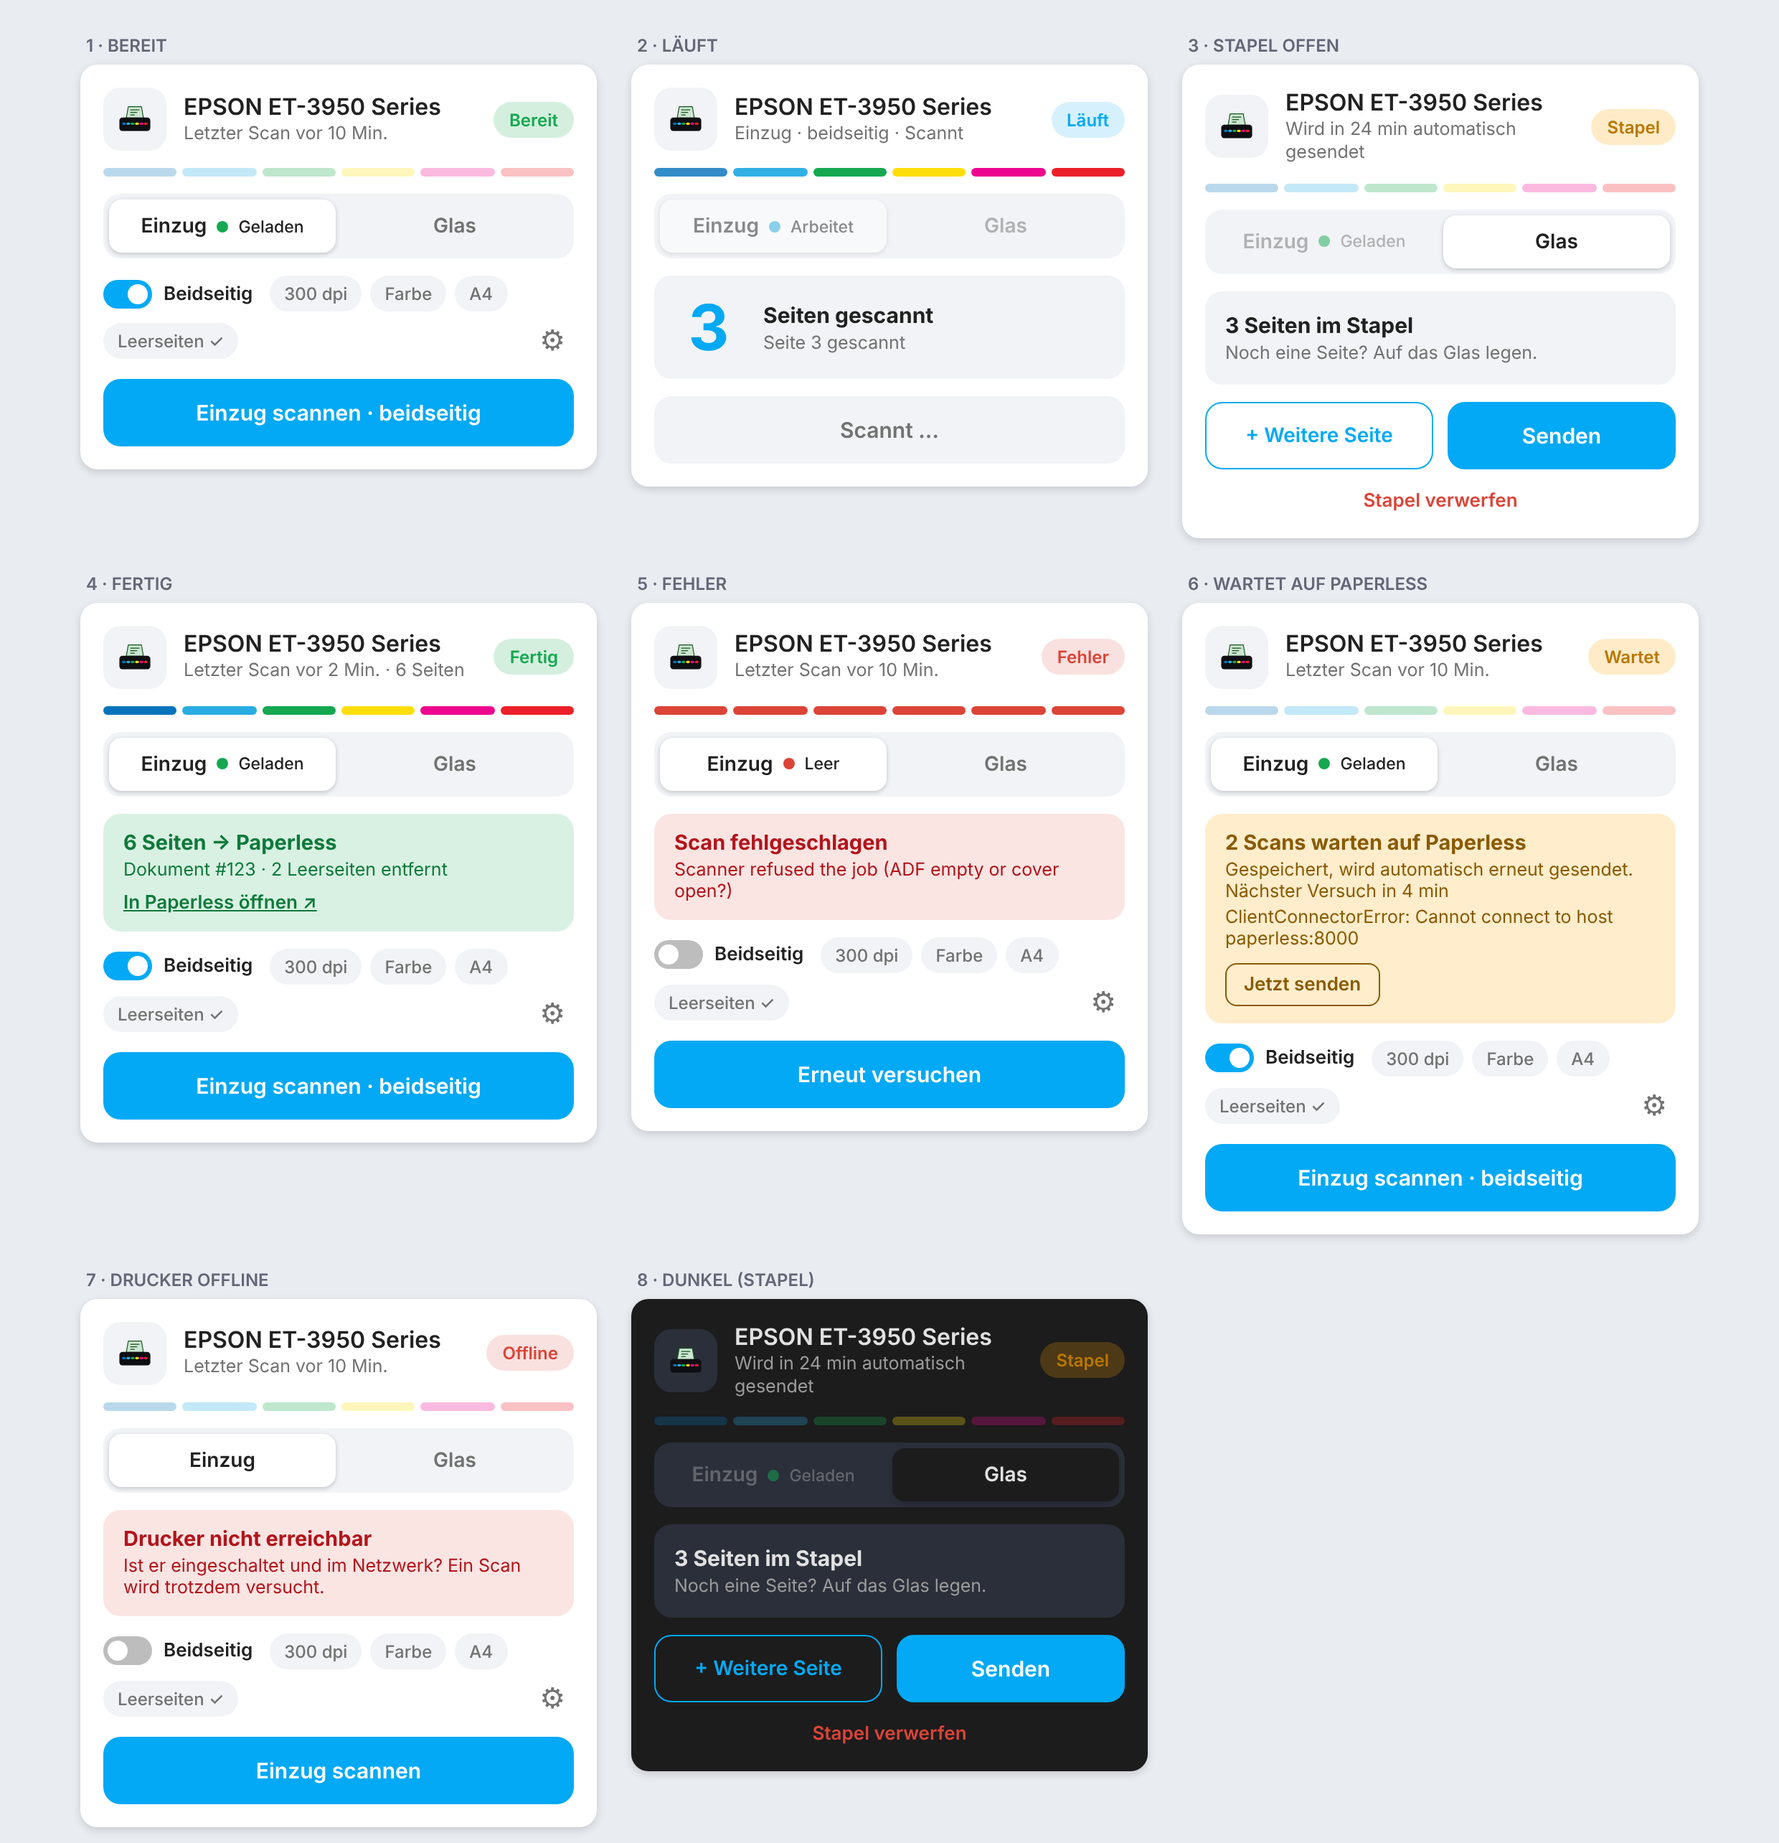
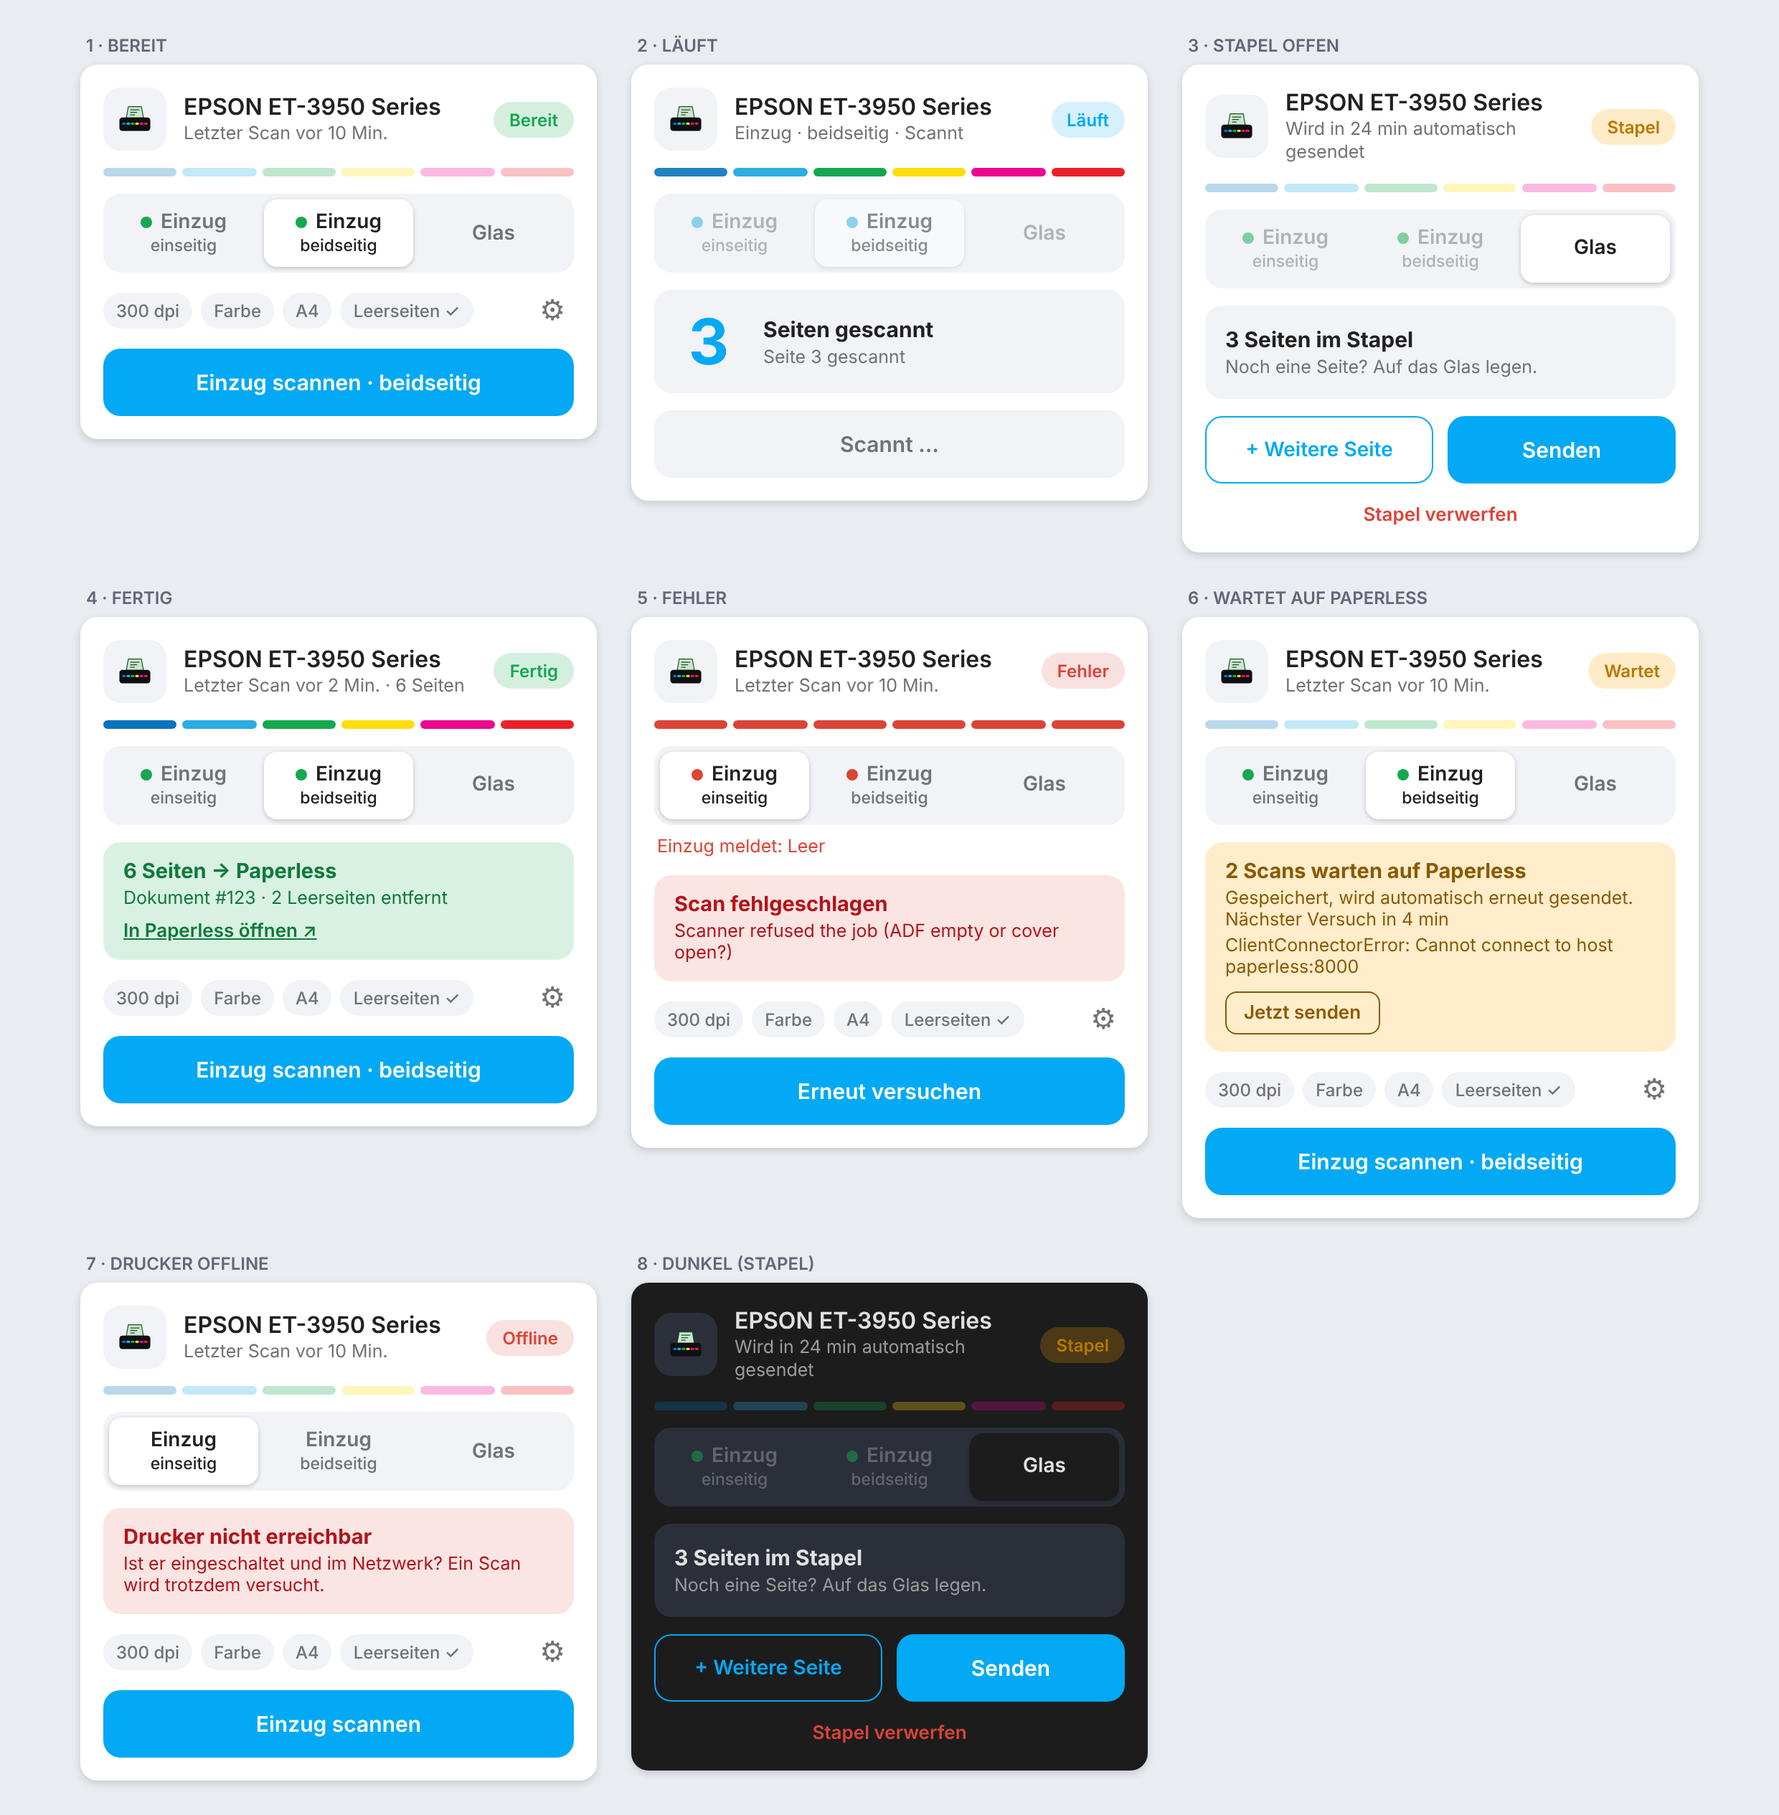
Card: feeder one-sided, feeder two-sided and glass as three modes; options in one row (0.10.1) (#23)
Claude-Session: https://claude.ai/code/session_01VXdiocP3YZJpREZCg1kc2R

diff --git a/custom_components/ha_airscan/frontend/ha-airscan-card.js b/custom_components/ha_airscan/frontend/ha-airscan-card.js
@@ -14,7 +14,7 @@ const T = {
     ready: "Bereit", running: "Läuft", batch: "Stapel", done: "Fertig", queued: "Wartet", error: "Fehler", unavailable: "Nicht verfügbar", offline: "Offline",
     platen: "Glas", adf: "Einzug", loaded: "Geladen", empty: "Leer", processing: "Arbeitet", jam: "Papierstau",
     cover_open: "Abdeckung offen", feeder_error: "Fehler",
-    duplex: "Beidseitig", duplex_lc: "beidseitig", scan_glass: "Seite scannen", scan_adf: "Einzug scannen", scan_adf_duplex: "Einzug scannen · beidseitig",
+    simplex: "einseitig", duplex_lc: "beidseitig", feeder_reports: "Einzug meldet:", scan_glass: "Seite scannen", scan_adf: "Einzug scannen", scan_adf_duplex: "Einzug scannen · beidseitig",
     scanning: "Scannt …", retry: "Erneut versuchen", add_page: "+ Weitere Seite", send: "Senden", discard: "Stapel verwerfen",
     last_scan: "Letzter Scan", pages_n: (n) => `${n} ${n === 1 ? "Seite" : "Seiten"}`,
     pages_scanned: "Seiten gescannt", in_batch: (n) => `${n} ${n === 1 ? "Seite" : "Seiten"} im Stapel`,
@@ -35,7 +35,7 @@ const T = {
     ready: "Ready", running: "Running", batch: "Batch", done: "Done", queued: "Waiting", error: "Error", unavailable: "Unavailable", offline: "Offline",
     platen: "Glass", adf: "Feeder", loaded: "Loaded", empty: "Empty", processing: "Busy", jam: "Jam",
     cover_open: "Cover open", feeder_error: "Error",
-    duplex: "Two-sided", duplex_lc: "two-sided", scan_glass: "Scan page", scan_adf: "Scan feeder", scan_adf_duplex: "Scan feeder · two-sided",
+    simplex: "one-sided", duplex_lc: "two-sided", feeder_reports: "Feeder reports:", scan_glass: "Scan page", scan_adf: "Scan feeder", scan_adf_duplex: "Scan feeder · two-sided",
     scanning: "Scanning …", retry: "Try again", add_page: "+ Another page", send: "Send", discard: "Discard batch",
     last_scan: "Last scan", pages_n: (n) => `${n} ${n === 1 ? "page" : "pages"}`,
     pages_scanned: "pages scanned", in_batch: (n) => `${n} ${n === 1 ? "page" : "pages"} in the batch`,
@@ -87,21 +87,19 @@ ha-card{color:var(--primary-text-color)}
 @keyframes pulse{50%{opacity:.35}}
 .beam.error i{background:var(--error-color,#db4437);opacity:1}
 .seg{display:grid;grid-auto-flow:column;grid-auto-columns:1fr;background:var(--secondary-background-color);border-radius:12px;padding:4px;gap:4px}
-.seg button{border:0;background:transparent;border-radius:9px;padding:10px 8px;font:inherit;font-weight:600;font-size:14px;color:var(--secondary-text-color);display:flex;align-items:center;justify-content:center;gap:7px;cursor:pointer}
+.seg button{border:0;background:transparent;border-radius:9px;padding:8px 4px;font:inherit;font-weight:600;font-size:14px;line-height:1.15;color:var(--secondary-text-color);display:flex;flex-direction:column;align-items:center;justify-content:center;gap:2px;cursor:pointer;min-width:0}
+.seg .l1{display:flex;align-items:center;gap:6px}
 .seg button.on{background:var(--card-background-color,#fff);color:var(--primary-text-color);box-shadow:0 1px 3px rgba(0,0,0,.2)}
 .seg button[disabled]{opacity:.5;cursor:not-allowed}
 .seg small{font-weight:500;font-size:11.5px}
 .dot{width:8px;height:8px;border-radius:50%;background:var(--disabled-text-color,#9e9e9e)}
 .dot.loaded{background:var(--success-color,#15a850)}.dot.empty,.dot.jam,.dot.cover_open,.dot.error{background:var(--error-color,#db4437)}.dot.processing{background:#29ACE2}
 .opts{display:flex;flex-wrap:wrap;gap:6px;align-items:center}
-.pill{font-size:12px;background:var(--secondary-background-color);color:var(--secondary-text-color);padding:5px 10px;border-radius:99px;font-weight:500}
+.feeder-hint{font-size:12.5px;margin:-4px 2px 0;color:var(--error-color,#db4437)}
+.pill{font-size:12px;background:var(--secondary-background-color);color:var(--secondary-text-color);padding:5px 9px;border-radius:99px;font-weight:500;white-space:nowrap}
 .pill.set{color:var(--primary-color)}
 .gear{margin-left:auto;border:0;background:transparent;color:var(--secondary-text-color);font-size:20px;cursor:pointer;padding:2px 6px}
 .gear.on{color:var(--primary-color)}
-.sw{display:flex;align-items:center;gap:8px;font-size:13px;font-weight:600;margin-right:6px;cursor:pointer;user-select:none}
-.sw .knob{width:34px;height:20px;border-radius:99px;background:var(--disabled-text-color,#bdbdbd);position:relative;display:inline-block;transition:background .15s}
-.sw .knob:after{content:"";position:absolute;left:3px;top:3px;width:14px;height:14px;border-radius:50%;background:#fff;transition:transform .15s}
-.sw.on .knob{background:var(--primary-color)}.sw.on .knob:after{transform:translateX(14px)}
 .panel{background:var(--secondary-background-color);border-radius:12px;padding:12px;display:grid;grid-template-columns:1fr 1fr;gap:10px 12px}
 .panel h4{grid-column:1/-1;margin:0;font-size:12.5px;font-weight:600;color:var(--secondary-text-color)}
 .panel label{display:flex;flex-direction:column;gap:4px;font-size:12px;color:var(--secondary-text-color)}
@@ -218,8 +216,12 @@ class HaAirscanCard extends HTMLElement {
     if (!el || el.disabled) return;
     const act = el.dataset.act;
     const ui = this._ui;
-    if (act === "src") { ui.source = el.dataset.v; this._save(); this._sig = ""; this._update(); }
-    else if (act === "duplex") { ui.duplex = !ui.duplex; this._save(); this._sig = ""; this._update(); }
+    if (act === "mode") {
+      const v = el.dataset.v;
+      ui.source = v === "platen" ? "platen" : "adf";
+      if (v !== "platen") ui.duplex = v === "adf2";
+      this._save(); this._sig = ""; this._update();
+    }
     else if (act === "gear") { ui.open = !ui.open; this._sig = ""; this._update(); }
     else if (act === "scan") {
       if (ui.source === "adf") this._call("scan", { source: "adf", duplex: ui.duplex && this._caps.duplex, ...this._overrides(false) });
@@ -296,10 +298,19 @@ class HaAirscanCard extends HTMLElement {
 
     // source selector
     const feederKey = feeder ? (FEEDER_KEYS[feeder.state] || null) : null;
-    const seg = (caps.platen && caps.adf) ? `<div class="seg">
-        <button data-act="src" data-v="adf" class="${source === "adf" ? "on" : ""}" ${running || locked ? "disabled" : ""} ${locked ? `title="${esc(t.batch_lock)}"` : ""}>${esc(t.adf)}${feederKey ? `<span class="dot ${esc(feeder.state)}"></span><small>${esc(t[feederKey])}</small>` : ""}</button>
-        <button data-act="src" data-v="platen" class="${source === "platen" ? "on" : ""}" ${running ? "disabled" : ""}>${esc(t.platen)}</button>
-      </div>` : "";
+    const modes = [];
+    if (caps.adf) {
+      modes.push({ id: "adf1", feeder: true, l1: t.adf, l2: t.simplex });
+      if (caps.duplex) modes.push({ id: "adf2", feeder: true, l1: t.adf, l2: t.duplex_lc });
+    }
+    if (caps.platen) modes.push({ id: "platen", feeder: false, l1: t.platen, l2: "" });
+    const modeNow = source === "platen" ? "platen" : (ui.duplex && caps.duplex ? "adf2" : "adf1");
+    const modeButton = (m) => `<button data-act="mode" data-v="${m.id}" class="${modeNow === m.id ? "on" : ""}" ${running || (locked && m.feeder) ? "disabled" : ""} ${locked && m.feeder ? `title="${esc(t.batch_lock)}"` : ""}>
+        <span class="l1">${m.feeder && feederKey ? `<span class="dot ${esc(feeder.state)}" title="${esc(t[feederKey])}"></span>` : ""}${esc(m.l1)}</span>${m.l2 ? `<small>${esc(m.l2)}</small>` : ""}</button>`;
+    const seg = modes.length > 1 ? `<div class="seg">${modes.map(modeButton).join("")}</div>` : "";
+    // the feeder state as text only when it needs attention (it can be stale after standby)
+    const feederHint = source === "adf" && feederKey && !running && !["loaded", "processing"].includes(feeder.state)
+      ? `<div class="feeder-hint">${esc(t.feeder_reports)} ${esc(t[feederKey])}</div>` : "";
 
     // middle part by status
     let middle = "";
@@ -346,11 +357,10 @@ class HaAirscanCard extends HTMLElement {
       const blankOn = ui.blank !== "default" ? ui.blank === "on" : !!settings.blank_detection;
       const pill = (txt, set) => `<span class="pill ${set ? "set" : ""}">${esc(txt)}</span>`;
       opts = `<div class="opts">
-        ${source === "adf" && caps.duplex ? `<label class="sw ${ui.duplex ? "on" : ""}" data-act="duplex" role="switch" aria-checked="${ui.duplex}"><span class="knob"></span>${esc(t.duplex)}</label>` : ""}
         ${eff.res ? pill(`${eff.res} dpi`, ui.resolution !== "default") : ""}
         ${eff.color ? pill(eff.color === "grayscale" ? t.gray : t.color, ui.color !== "default") : ""}
         ${eff.page ? pill(eff.page === "max" ? t.max : String(eff.page).toUpperCase(), ui.page !== "default") : ""}
-        ${source === "adf" ? pill(`${t.blank} ${blankOn ? "✓" : "–"}`, ui.blank !== "default") : ""}
+        ${source === "adf" && blankOn ? pill(`${t.blank} ✓`, ui.blank !== "default") : ""}
         <button class="gear ${ui.open ? "on" : ""}" data-act="gear" aria-label="${esc(t.settings)}" title="${esc(t.settings)}">⚙</button>
       </div>`;
       if (ui.open) {
@@ -377,7 +387,7 @@ class HaAirscanCard extends HTMLElement {
     root.innerHTML = `<style>${STYLE}</style><ha-card><div class="body">
       <div class="head"><div class="logo">${LOGO}</div><div class="t"><div class="name">${esc(name)}</div><div class="sub">${esc(sub)}</div></div><span class="chip ${chipCls}">${esc(t[chipKey])}</span></div>
       <div class="beam ${beam}"><i></i><i></i><i></i><i></i><i></i><i></i></div>
-      ${seg}${middle}${printerBox}${banner}${queueBox}${opts}${panel}${actions}
+      ${seg}${feederHint}${middle}${printerBox}${banner}${queueBox}${opts}${panel}${actions}
       ${this._toast ? `<div class="toast">${esc(this._toast)}</div>` : ""}
     </div></ha-card>`;
   }

diff --git a/tests/card/run.js b/tests/card/run.js
@@ -32,14 +32,16 @@ const assert = require("assert");
     const tick = () => new Promise((r) => setTimeout(r, 0));
 
     const c = mount({ status: "idle" }, document.body);      // default source = feeder
-    out.defaultFeeder = root(c).querySelector('[data-act="src"][data-v="adf"]').classList.contains("on");
-    out.feederFirst = root(c).querySelector('.seg button').dataset.v;
+    out.defaultFeeder = root(c).querySelector('[data-act="mode"][data-v="adf1"]').classList.contains("on");
+    out.modes = [...root(c).querySelectorAll('.seg button')].map((b) => b.dataset.v);
+    const rowTops = (card) => [...new Set([...root(card).querySelectorAll('.opts > *')].map((e) => { const b = e.getBoundingClientRect(); return Math.round((b.top + b.height / 2) / 4); }))].length;   // vertical centres, 4px tolerance
+    out.optsRows = rowTops(c);
     out.simplex = c._hass.calls.length === 0 && (click(c, '[data-act="scan"]'), c._hass.calls.slice());
     c._hass.calls.length = 0;
-    click(c, '[data-act="src"][data-v="platen"]'); await tick();
+    click(c, '[data-act="mode"][data-v="platen"]'); await tick();
     click(c, '[data-act="scan"]'); out.glass = c._hass.calls.slice();
-    click(c, '[data-act="src"][data-v="adf"]'); await tick();
-    click(c, '[data-act="duplex"]'); await tick();
+    click(c, '[data-act="mode"][data-v="adf2"]'); await tick();
+    out.duplexOn = root(c).querySelector('[data-act="mode"][data-v="adf2"]').classList.contains("on");
     click(c, '[data-act="scan"]'); out.adfDuplex = c._hass.calls.slice();
     click(c, '[data-act="gear"]'); await tick();
     const sel = root(c).querySelector('[data-set="resolution"]'); sel.value = "600"; sel.dispatchEvent(new Event("change", { bubbles: true })); await tick();
@@ -50,7 +52,7 @@ const assert = require("assert");
     const b = mount({ status: "batch", attrs: { batch_pages: 2 } }, document.body);
     click(b, '[data-act="add"]'); click(b, '[data-act="send"]'); click(b, '[data-act="discard"]');
     out.batch = b._hass.calls.slice();
-    out.batchAdfDisabled = root(b).querySelector('[data-act="src"][data-v="adf"]').disabled;
+    out.batchAdfDisabled = root(b).querySelector('[data-act="mode"][data-v="adf1"]').disabled && root(b).querySelector('[data-act="mode"][data-v="adf2"]').disabled;
 
     const r = mount({ status: "running" }, document.body);
     out.runningDisabled = root(r).querySelector(".primary").disabled;
@@ -93,7 +95,9 @@ const assert = require("assert");
   });
 
   assert.strictEqual(result.defaultFeeder, true, "feeder must be the default");
-  assert.strictEqual(result.feederFirst, "adf", "feeder button must be on the left");
+  assert.deepStrictEqual(result.modes, ["adf1", "adf2", "platen"], "feeder one-sided, feeder two-sided, glass");
+  assert.strictEqual(result.optsRows, 1, "the options must fit in one row");
+  assert.strictEqual(result.duplexOn, true);
   assert.deepStrictEqual(result.simplex, [["ha_airscan", "scan", { source: "adf", duplex: false }]]);
   assert.deepStrictEqual(result.glass, [["ha_airscan", "batch_add", {}]]);
   assert.deepStrictEqual(result.adfDuplex[1], ["ha_airscan", "scan", { source: "adf", duplex: true }]);

diff --git a/README.md b/README.md
@@ -64,7 +64,7 @@ type: custom:ha-airscan-card
 entity: sensor.epson_et_3950_series_status   # der Status-Sensor des Scanners
 ```
 
-- Quelle wählen (Glas / Einzug), bei Bedarf *Beidseitig* und über das Zahnrad Auflösung, Farbe, Format und Leerseiten **für den nächsten Scan** (wird im Browser gemerkt, die Integrationsoptionen bleiben unverändert).
+- Scanart in drei Segmenten wählen: **Einzug einseitig**, **Einzug beidseitig** (nur wenn der Scanner Duplex kann) oder **Glas**; über das Zahnrad Auflösung, Farbe, Format und Leerseiten **für den nächsten Scan** (wird im Browser gemerkt, die Integrationsoptionen bleiben unverändert). Die Punkte an den Einzug-Segmenten zeigen den Zustand des Einzugs; meldet er etwas anderes als „geladen“, steht es zusätzlich als Text darunter.
 - Zeigt Status, laufende Seitenzahl, Einzugsstatus, den Stapel mit Restzeit, das Ergebnis mit Link zu Paperless und Fehlermeldungen. Farben und Schrift folgen dem Theme.
 - **Drucker nicht erreichbar:** Antwortet der Drucker auf zwei Statusabfragen in Folge (alle 30 s) nicht, zeigt die Karte „Offline“ mit einem Hinweis. Der Scan-Knopf bleibt aktiv, denn ein Drucker im Standby wird beim Scan geweckt. Meldet der Drucker selbst einen Fehler (`Stopped`/`Down`), steht das ebenfalls dort. Während eines laufenden Scans wird nie gewarnt, weil der Drucker dann Abfragen oft verzögert beantwortet. Die Angaben stehen als Attribute `printer_online` und `printer_state` am Status-Sensor und lassen sich für Automationen nutzen.
 - Optional: `name` (Titel) und `config_entry` (bei mehreren Scannern).
